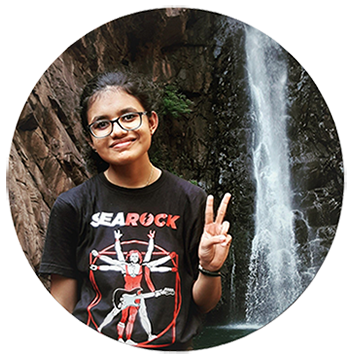
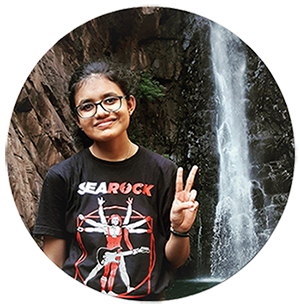
Add files via upload

diff --git a/index.html b/index.html
@@ -58,7 +58,7 @@
     <main>
       <div class="container" id="heading"><h2 class="pt-2">Hey There! I am Sanika. I am a Junior Web Developer!</h2></div>
     
-      <div class="container-fluid responsive col-12"><img src="mypic.png" alt="My picture"></div>
+      <div class="img-fluid responsive col-12"><img src="mypic.png" alt="My picture"></div>
 
       <!--ABOUT ME-->
       <div class="container-fluid">
@@ -252,7 +252,7 @@
           
           <div class="container-fluid i-am-centered">
             <div class="row">
-            <div><a href="www.linkedin.com/in/sanika-chepe-93b570163" target="blank"><img src="linkedin.png"></a></div>
+            <div><a href="https://www.linkedin.com/in/sanika-chepe-93b570163" target="blank"><img src="linkedin.png"></a></div>
             <div><a href="https://www.instagram.com/sanikachepe/" target="blank"><img src="insta.png"></a></div>
             <div><a href="https://www.facebook.com/sanika.chepe" target="blank"><img src="facebook.png"></a></div>
           <div><a href="https://join.skype.com/invite/YdcUfjXnUZXK" target="blank"><img src="skype.png"></a></div>

diff --git a/style.css b/style.css
@@ -6,8 +6,6 @@ body {
 }
 .responsive {
   text-align: center;
-  max-width: 400px;
-  height: auto;
 }
 #heading {
   text-align: center;
